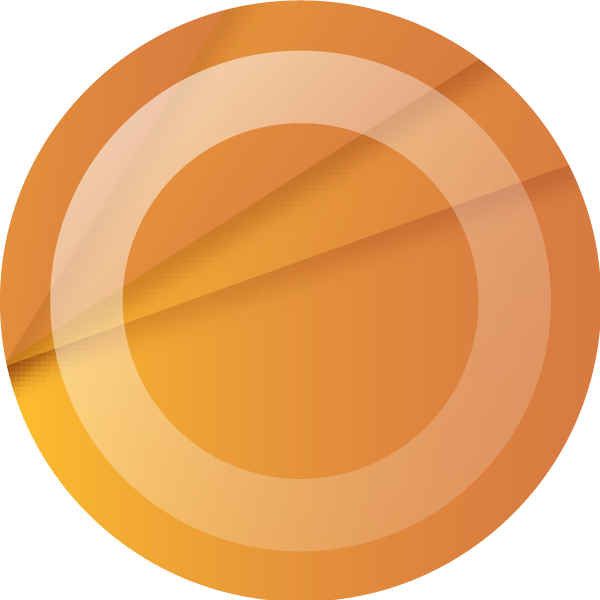
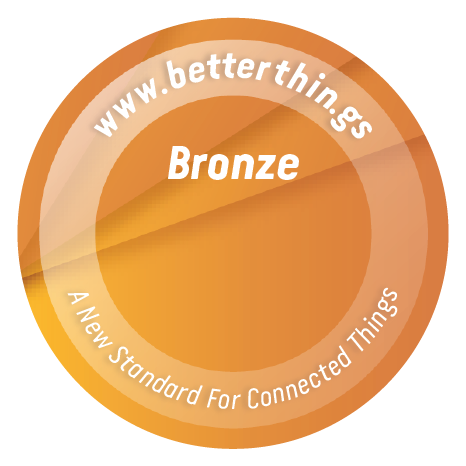
Fonts & New Seals

diff --git a/server.js b/server.js
@@ -9,6 +9,9 @@ const css = fs.readFileSync('better-things.css', 'utf8');
 const bronze = fs.readFileSync('bronze.png');
 const silver = fs.readFileSync('silver.png');
 const gold = fs.readFileSync('gold.png');
+const vanCondensedWoff = fs.readFileSync('van_condensed-regular-webfont.woff');
+const vanCondensedWoff2 = fs.readFileSync('van_condensed-regular-webfont.woff2');
+const entypoWoff = fs.readFileSync('Entypo-webfont.woff');
 
 let products = require('./products.json');
 let questions = require('./questions.json');
@@ -47,6 +50,22 @@ const sendPNG = (response, png) => {
    'Content-Type': 'image/png'
   });
   response.end(png, 'binary');
+  return;
+}
+
+const sendWOFF = (response, woff) => {
+  response.writeHead(200, {
+   'Content-Type': 'application/font-woff'
+  });
+  response.end(woff, 'binary');
+  return;
+}
+
+const sendWOFF2 = (response, woff) => {
+  response.writeHead(200, {
+   'Content-Type': 'application/font-woff2'
+  });
+  response.end(woff, 'binary');
   return;
 }
 
@@ -109,6 +128,18 @@ const requestHandler = (request, response) => {
 
   if (request.url == "/bronze.png") {
     return sendPNG(response, bronze);
+  }
+
+  if (request.url == "/van_condensed-regular-webfont.woff") {
+    return sendWOFF(response, vanCondensedWoff);
+  }
+
+  if (request.url == "/van_condensed-regular-webfont.woff2") {
+    return sendWOFF2(response, vanCondensedWoff2);
+  }
+
+  if (request.url == "/Entypo-webfont.woff") {
+    return sendWOFF(response, entypoWoff);
   }
 
   response.end("OH NO");

diff --git a/better-things.css b/better-things.css
@@ -3,6 +3,25 @@
    License: none (public domain)
 */
 
+
+@font-face {
+    font-family: 'van_condensedregular';
+    src: url('van_condensed-regular-webfont.woff2') format('woff2'),
+         url('van_condensed-regular-webfont.woff') format('woff');
+    font-weight: normal;
+    font-style: normal;
+
+}
+
+@font-face {
+    font-family: 'entyporegular';
+    src: url('Entypo-webfont.woff') format('woff');
+    font-weight: normal;
+    font-style: normal;
+
+}
+
+
 html, body, div, span, applet, object, iframe,
 h1, h2, h3, h4, h5, h6, p, blockquote, pre,
 a, abbr, acronym, address, big, button, cite, code,
@@ -22,6 +41,7 @@ time, mark, audio, video {
 	font-size: 100%;
 	font: inherit;
 	vertical-align: baseline;
+
 }
 /* HTML5 display-role reset for older browsers */
 article, aside, details, figcaption, figure, 
@@ -119,11 +139,17 @@ a {
   text-decoration: none;
 }
 
+/**** ADD CSS HERE ****/
+ body {
+  font-family: 'van_condensedregular';
+}
+
 .question-navigator {
   display: flex;
 }
 
 .question-navigator .control {
+  font-family: "Entyporegular";
   padding: 0 10px;
   margin: auto;
   font-size: 50px;
@@ -219,9 +245,12 @@ a {
 }
 
 .results .badge .badge-text {
+  font-family: 'brandon-grotesque','van_condensedregular',sans-serif;
+  font-weight: bold;
   margin: auto;
-  font-size: 105px;
+  font-size: 77px;
   color: white;
+  padding-top: 18px;
 }
 
 .results .badge.gold {

diff --git a/weighting.html b/weighting.html
@@ -55,12 +55,12 @@ $(function() {
     $('body').empty();
     $('body').addClass('question-navigator');
     $('body').append([
-      '<a class="control previous" href="#">&lt;</a>',
+      '<a class="control previous" href="#">&#xe902;</a>',
       '<div class="middle">',
       '  <div class="question-viewer"></div>',
       '  <a class="reset" href="#">reset weights</a>',
       '</div>',
-      '<a class="control next" href="#">&gt;</a>'
+      '<a class="control next" href="#">&#xe900;</a>'
     ].join(''));
 
     $('.previous').on('click', function(e) {

diff --git a/results.html b/results.html
@@ -6,6 +6,8 @@
       integrity="sha256-hwg4gsxgFZhOsEEamdOYGBf13FyQuiTwlAQgxVSNgt4="
       crossorigin="anonymous">
     </script>
+    <script src="https://use.typekit.net/kgy3wnf.js"></script>
+    <script>try{Typekit.load({ async: true });}catch(e){}</script>
     <script>
 $(function() {
   function badgeTypeFor(result) {
@@ -37,7 +39,7 @@ $(function() {
       $('body').empty();
       $('body').addClass('results');
       $('body').append(html);
-      setTimeout(refresh, 500);
+      //setTimeout(refresh, 500);
     });
   }
 
